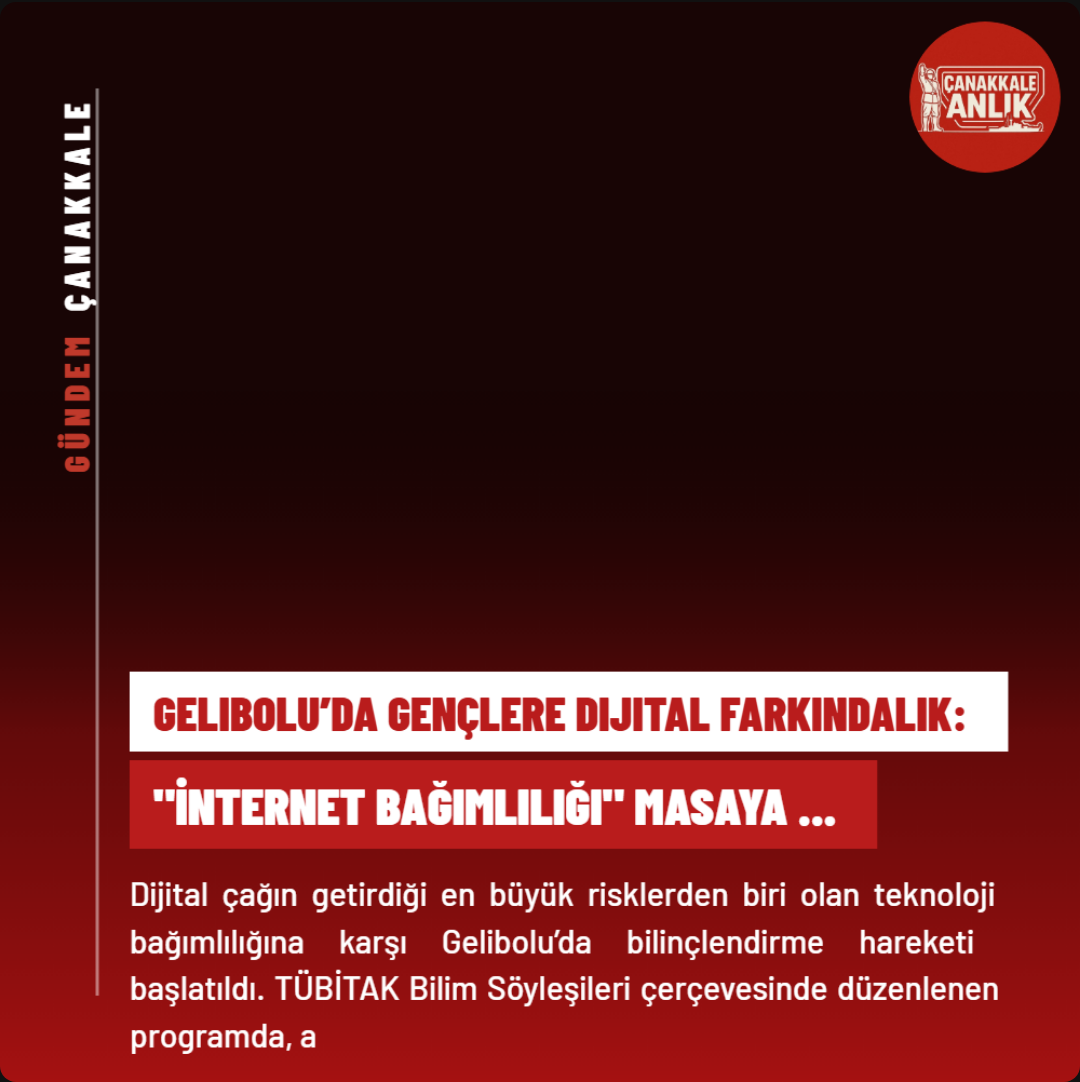
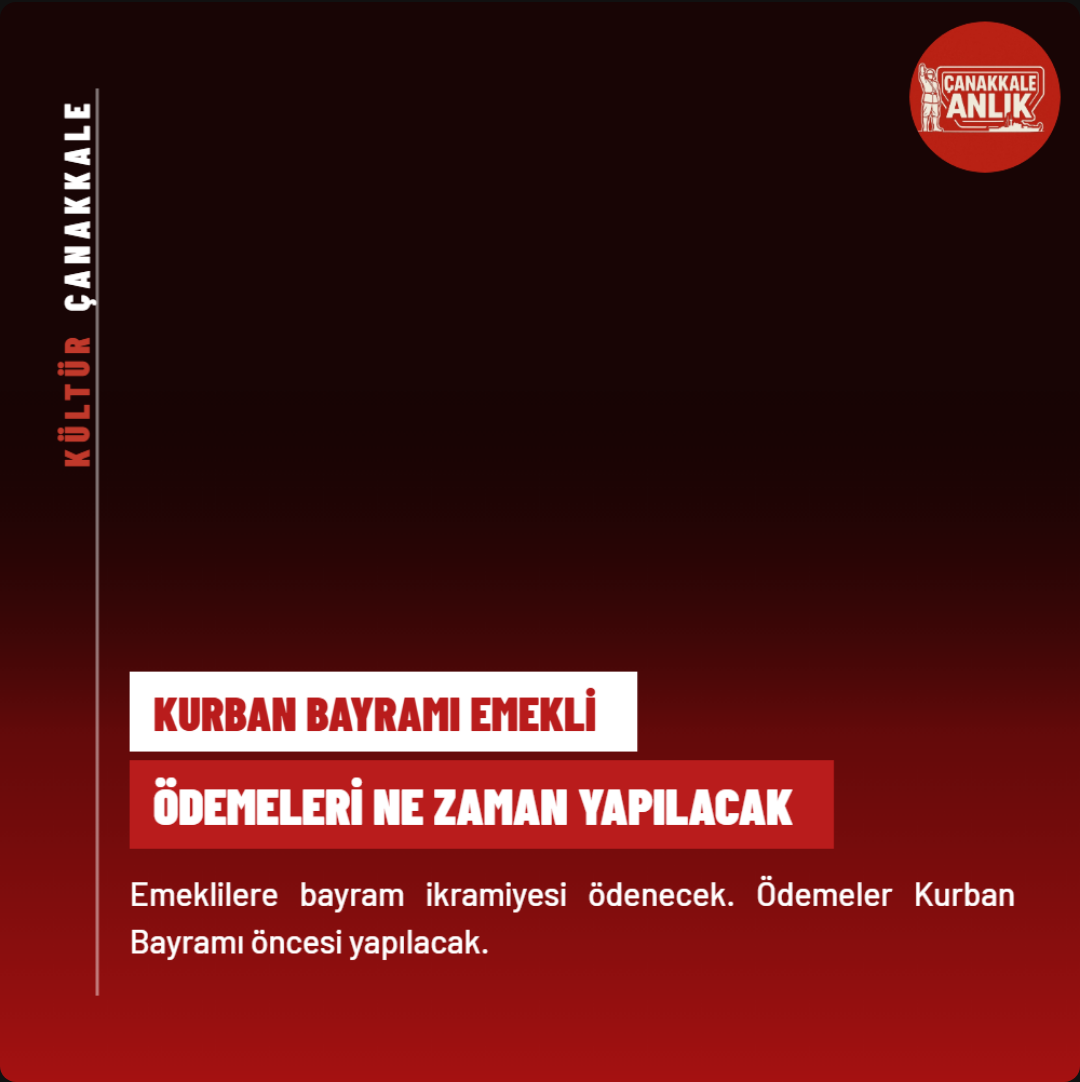
feat: add Groq API integration, fix Turkish charset and improve category system

Changed region(s): [[0.1222, 0.61, 0.9472, 0.976], [0.0306, 0.305, 0.0917, 0.4575]]

diff --git a/canakkale-anlik.html b/canakkale-anlik.html
@@ -372,7 +372,7 @@ function draw(){
   cx.strokeStyle=inv?"rgba(0,0,0,0.6)":"rgba(255,255,255,0.45)";
   cx.lineWidth=3; cx.stroke();
 
-  var loc=gv("iLoc").toUpperCase()||"CANAKKALE";
+  var loc=gv("iLoc")||"ÇANAKKALE";
   var fsL=gn("s4");
   cx.save();
   cx.font="900 "+fsL+"px 'Barlow Condensed'";
@@ -466,8 +466,8 @@ function draw(){
 
   var sx=120, maxW=W-sx-60;
   var y=H*(gn("sY")/100);
-  var h1v=gv("iH1").toUpperCase();
-  var h2v=gv("iH2").toUpperCase();
+  var h1v=gv("iH1");
+  var h2v=gv("iH2");
   var fs1=gn("s1"), fs2=gn("s2"), fs3=gn("s3");
 
   if(h1v){

diff --git a/image_generator.py b/image_generator.py
@@ -4,132 +4,110 @@ import urllib.parse
 import http.server
 from playwright.sync_api import sync_playwright
 
-# ---------------------------------------------------
-# AYARLAR
-# ---------------------------------------------------
-
-# HTML şablonunun bulunduğu klasör
 BASE_DIR = os.path.dirname(os.path.abspath(__file__))
-
-# Görselin kaydedileceği yol
 OUTPUT_PATH = os.path.join(BASE_DIR, "haber_gorseli.png")
-
-# Sunucu portu
 PORT = 8765
 
 
-# ---------------------------------------------------
-# SUNUCU
-# ---------------------------------------------------
-
 class SilentHandler(http.server.SimpleHTTPRequestHandler):
-    """
-    Sessiz HTTP sunucusu.
-    Normalde her istek terminale yazdırılır.
-    Biz bunu istemiyoruz — log mesajlarını gizliyoruz.
-    """
     def log_message(self, format, *args):
-        pass  # Hiçbir şey yazdırma
+        pass
 
     def log_error(self, format, *args):
-        pass  # Hataları da gizle
+        pass
 
 
 def start_server():
-    """
-    Arka planda HTTP sunucusu başlatır.
-    Bu sunucu HTML şablonunu Playwright'a sunar.
-    """
-    os.chdir(BASE_DIR)  # Doğru klasörde çalış
+    os.chdir(BASE_DIR)
     server = http.server.HTTPServer(("localhost", PORT), SilentHandler)
-    # daemon=True → Ana program bitince sunucu da biter
     thread = threading.Thread(target=server.serve_forever)
     thread.daemon = True
     thread.start()
     return server
 
 
-# ---------------------------------------------------
-# ANA FONKSİYON
-# ---------------------------------------------------
+def turkce_buyut(text):
+    """
+    Türkçe karakterleri doğru büyütür.
+    Python upper() → 'i' = 'I' (YANLIŞ)
+    Bu fonksiyon → 'i' = 'İ' (DOĞRU)
+    """
+    return (text
+        .replace("i", "İ")
+        .replace("ı", "I")
+        .replace("ğ", "Ğ")
+        .replace("ü", "Ü")
+        .replace("ş", "Ş")
+        .replace("ö", "Ö")
+        .replace("ç", "Ç")
+        .upper()
+    )
+
+
+def _son_cumlede_kes(metin):
+    """
+    Metni son tam cümlede keser.
+    Nokta, ünlem veya soru işaretinde biter.
+    Bitmiyorsa olduğu gibi döner.
+    """
+    for isaret in [".", "!", "?"]:
+        son = metin.rfind(isaret)
+        if son > 0:
+            return metin[:son + 1]
+    return metin
+
 
 def create_news_image(title, description, source, image_url=None, category=""):
     """
     Haber görseli oluşturur.
-
-    Parametreler:
     title       → haberin başlığı
-    description → haberin kısa açıklaması  
+    description → haberin kısa açıklaması
     source      → kaynak site adı
     image_url   → arka plan görseli URL'si (opsiyonel)
-    category    → haber kategorisi (TRAFİK, ASAYİŞ vb.)
-
-    Döndürür:
-    output_path → oluşturulan görselin yolu
+    category    → haber kategorisi
     """
-
-    # ---------------------------------------------------
-    # 1. ADIM: Başlığı ikiye böl (h1 ve h2)
-    # ---------------------------------------------------
-    # Örnek: "Çanakkale'de trafik sorunu devam ediyor"
-    # h1 → "ÇANAKKALE'DE TRAFİK SORUNU"
-    # h2 → "DEVAM EDİYOR"
+    # Başlığı ikiye böl
     words = title.split()
     mid = len(words) // 2
-    h1 = " ".join(words[:mid]).upper()
-    h2 = " ".join(words[mid:]).upper()
+    h1 = turkce_buyut(" ".join(words[:mid]))
+    h2 = turkce_buyut(" ".join(words[mid:]))
 
-    # ---------------------------------------------------
-    # 2. ADIM: URL parametrelerini hazırla
-    # ---------------------------------------------------
+    # Açıklamayı son tam cümlede kes
+    temiz_aciklama = _son_cumlede_kes(description) if description else ""
+
     params = urllib.parse.urlencode({
         "h1": h1,
         "h2": h2,
-        "desc": description[:200] if description else "",
+        "desc": temiz_aciklama,
         "cat": category,
         "img": image_url or ""
     })
 
     url = f"http://localhost:{PORT}/canakkale-anlik.html?{params}"
 
-    # ---------------------------------------------------
-    # 3. ADIM: Playwright ile ekran görüntüsü al
-    # ---------------------------------------------------
     with sync_playwright() as p:
         browser = p.chromium.launch(headless=True)
         context = browser.new_context(
-        viewport={"width": 1000, "height": 1800},
-        device_scale_factor=2
-    )
+            viewport={"width": 1000, "height": 1800},
+            device_scale_factor=2
+        )
         page = context.new_page()
-
-        # Sayfayı aç, ağ trafiği durene kadar bekle
         page.goto(url, wait_until="networkidle")
-
-        # Canvas çizimi için ekstra bekle
-        page.wait_for_timeout(1500)
-
-        # Sadece canvas elementini yakala
+        page.wait_for_timeout(3000)
         page.locator("canvas").screenshot(path=OUTPUT_PATH)
-
         browser.close()
 
     print(f"Görsel oluşturuldu: {OUTPUT_PATH}")
     return OUTPUT_PATH
 
 
-# ---------------------------------------------------
-# TEST BLOĞU
-# ---------------------------------------------------
 if __name__ == "__main__":
-    # Sunucuyu başlat
     server = start_server()
     print(f"Sunucu başladı: http://localhost:{PORT}")
 
-    # Test
     path = create_news_image(
         title="Çanakkale'de Troya Maratonu heyecanı başladı",
-        description="Çanakkale'de düzenlenen Troya Maratonu'na bu yıl binlerce sporcu katıldı.",
+        description="Çanakkale'de düzenlenen Troya Maratonu'na bu yıl binlerce sporcu katıldı. Etkinlik büyük ilgi gördü.",
         source="Çanakkale Haber",
         category="ETKİNLİK"
     )

diff --git a/rewriter.py b/rewriter.py
@@ -2,21 +2,29 @@ import os
 import requests
 from dotenv import load_dotenv
 
-# .env dosyasını oku
 load_dotenv()
 GROQ_API_KEY = os.getenv("GROQ_API_KEY")
+
 
 def rewrite_news(title, description):
     """
     Haberi Groq API ile yeniden yazar.
-    Aynı manayı farklı kelimelerle ifade eder.
+    Hata durumunda orijinal haberi döndürür, bot durmaz.
     """
-    prompt = f"""Sen bir haber editörüsün. Aşağıdaki haberi aynı bilgileri koruyarak farklı kelimelerle yeniden yaz. Telif sorunu yaşanmaması için cümle yapısını değiştir ama haberin özünü koru. Türkçe yaz.
+    prompt = f"""Sen bir Türkçe haber editörüsün. Aşağıdaki haberi SADECE TÜRKÇE olarak yeniden yaz.
+
+KESİNLİKLE UYULMASI GEREKEN KURALLAR:
+- Yabancı dil kullanma
+- Uydurma bilgi ekleme
+- BAŞLIK: tam olarak 6-8 kelime olmalı
+- AÇIKLAMA: tam olarak 2 cümle olmalı, toplam 20-25 kelime olmalı
+- Her cümle nokta ile bitmeli
+- Açıklama haberin özünü yansıtmalı
 
 Başlık: {title}
 Açıklama: {description}
 
-Şu formatta cevap ver:
+SADECE şu formatta yaz:
 BAŞLIK: yeniden yazılmış başlık
 AÇIKLAMA: yeniden yazılmış açıklama"""
 
@@ -28,9 +36,16 @@ AÇIKLAMA: yeniden yazılmış açıklama"""
     body = {
         "model": "llama-3.3-70b-versatile",
         "messages": [
-            {"role": "user", "content": prompt}
+            {
+                "role": "system",
+                "content": "Sen yalnızca Türkçe konuşan bir haber editörüsün. Asla başka dil kullanma. Verilen kelime sayısı kurallarına kesinlikle uy."
+            },
+            {
+                "role": "user",
+                "content": prompt
+            }
         ],
-        "temperature": 0.7
+        "temperature": 0.3
     }
 
     try:
@@ -43,7 +58,6 @@ AÇIKLAMA: yeniden yazılmış açıklama"""
         data = response.json()
         text = data["choices"][0]["message"]["content"]
 
-        # Başlık ve açıklamayı ayır
         lines = text.strip().split("\n")
         new_title = title
         new_description = description
@@ -61,14 +75,13 @@ AÇIKLAMA: yeniden yazılmış açıklama"""
         return title, description
 
 
-# Test bloğu
 if __name__ == "__main__":
     baslik = "Çanakkale'de trafik kazası: 2 kişi yaralandı"
     aciklama = "Merkez ilçede meydana gelen trafik kazasında 2 kişi yaralanarak hastaneye kaldırıldı."
 
     yeni_baslik, yeni_aciklama = rewrite_news(baslik, aciklama)
-    print(f"Orijinal başlık : {baslik}")
-    print(f"Yeni başlık     : {yeni_baslik}")
+    print(f"Orijinal başlık   : {baslik}")
+    print(f"Yeni başlık       : {yeni_baslik}")
     print(f"---")
     print(f"Orijinal açıklama : {aciklama}")
     print(f"Yeni açıklama     : {yeni_aciklama}")

diff --git a/config.py b/config.py
@@ -38,20 +38,10 @@ SITES = [
 # Örnek: "gözalt" → gözaltı, gözaltına, gözaltında
 # ---------------------------------------------------
 CATEGORY_RULES = {
-    "ASAYİŞ": [
-        "kaza", "çarpış", "yaral", "öldü", "hayatın kaybett",
-        "cinayet", "kavga", "hırsız",
-        "gözalt", "tutuklam", "tutukland", "yakaland",
-        "uyuşturucu", "yangın", "göçmen", "kaçakç", "suç",
-        "ihbar", "şüpheli", "silah", "bıçak",
-        "darp", "saldırı", "gasp", "dolandırıcı",
-        "kaçtı", "firari", "aranan", "ceset", "intihar", "boğuldu"
-    ],
-
     "TRAFİK": [
         "trafik", "kavşak", "ulaşım", "asfalt",
-        "köprü", "kapan", "yol çalışm", "otobüs",
-        "araç", "sürücü", "tıkandı", "yaya",
+        "köprü", "yol çalışm", "otobüs",
+        "sürücü", "tıkandı", "yaya",
         "direksiyon", "hakimiyet", "takla", "devrildi",
         "çarpıştı", "kaza yaptı", "park halinde",
         "çarptı", "ezdi", "motosiklet", "tır",
@@ -63,6 +53,16 @@ CATEGORY_RULES = {
         "soğuk", "meteoroloji", "sel", "taşkın", "don",
         "sis", "dolu", "rüzgar", "uyarı",
         "deprem", "afet", "heyelan", "çığ", "buz"
+    ],
+
+    "ASAYİŞ": [
+        "kaza", "çarpış", "yaral", "öldü", "hayatın kaybett",
+        "cinayet", "kavga", "hırsız",
+        "gözalt", "tutuklam", "tutukland", "yakaland",
+        "uyuşturucu", "yangın", "göçmen", "kaçakç", "suç",
+        "ihbar", "şüpheli", "silah", "bıçak",
+        "darp", "saldırı", "gasp", "dolandırıcı",
+        "kaçtı", "firari", "aranan", "ceset", "intihar", "boğuldu"
     ],
 
     "SPOR": [
@@ -96,6 +96,12 @@ CATEGORY_RULES = {
         "gelenek", "folklo", "türkü", "dans",
         "tablo", "halk", "miras", "kazı"
     ],
-}
 
+    "EĞİTİM": [
+        "üniversite", "okul", "öğrenci", "öğretmen",
+        "eğitim", "mezun", "sınav", "burs",
+        "akademi", "fakülte", "rektör", "kampüs",
+        "seminer", "kurs", "sertifika", "diploma"
+    ],
+}
 DEFAULT_CATEGORY = "GÜNDEM"

diff --git a/main.py b/main.py
@@ -4,6 +4,7 @@ from scraper import get_all_news, get_article_detail
 from image_generator import create_news_image, start_server
 from telegram_sender import send_photo, send_message
 from config import CATEGORY_RULES, DEFAULT_CATEGORY, MAX_NEWS_PER_RUN, SERVER_PORT
+from rewriter import rewrite_news
 
 # ---------------------------------------------------
 # AYARLAR
@@ -100,10 +101,18 @@ def main():
         # Haberin detayını çek
         detay = get_article_detail(haber["url"])
 
+        # Haberi yeniden yaz
+        print(f"  Yeniden yazılıyor...")
+        yeni_baslik, yeni_aciklama = rewrite_news(
+            haber["title"],
+            detay["description"]
+        )
+        print(f"  Yeni başlık: {yeni_baslik[:50]}...")
+
         # Görseli oluştur
         gorsel_yolu = create_news_image(
-            title=haber["title"],
-            description=detay["description"],
+            title=yeni_baslik,
+            description=yeni_aciklama,
             source=haber["source"],
             image_url=detay["image_url"],
             category=determine_category(haber["title"])
@@ -111,8 +120,8 @@ def main():
 
         # Telegram mesajını hazırla
         caption = (
-            f"<b>{haber['title']}</b>\n\n"
-            f"{detay['description']}\n\n"
+            f"<b>{yeni_baslik}</b>\n\n"
+            f"{yeni_aciklama}\n\n"
             f"🔗 <a href='{haber['url']}'>Haberin tamamı</a>\n"
             f"📌 Kaynak: {haber['source']}"
         )

diff --git a/telegram_sender.py b/telegram_sender.py
@@ -1,11 +1,13 @@
 import requests
 import os
+from dotenv import load_dotenv
 
 # ---------------------------------------------------
 # TELEGRAM BİLGİLERİ
 # os.environ.get() → GitHub Secrets'tan okur
 # Kod içine direkt yazmıyoruz — güvenlik için
 # ---------------------------------------------------
+load_dotenv()
 TELEGRAM_TOKEN = os.environ.get("TELEGRAM_TOKEN")
 TELEGRAM_CHAT_ID = os.environ.get("TELEGRAM_CHAT_ID")
 
